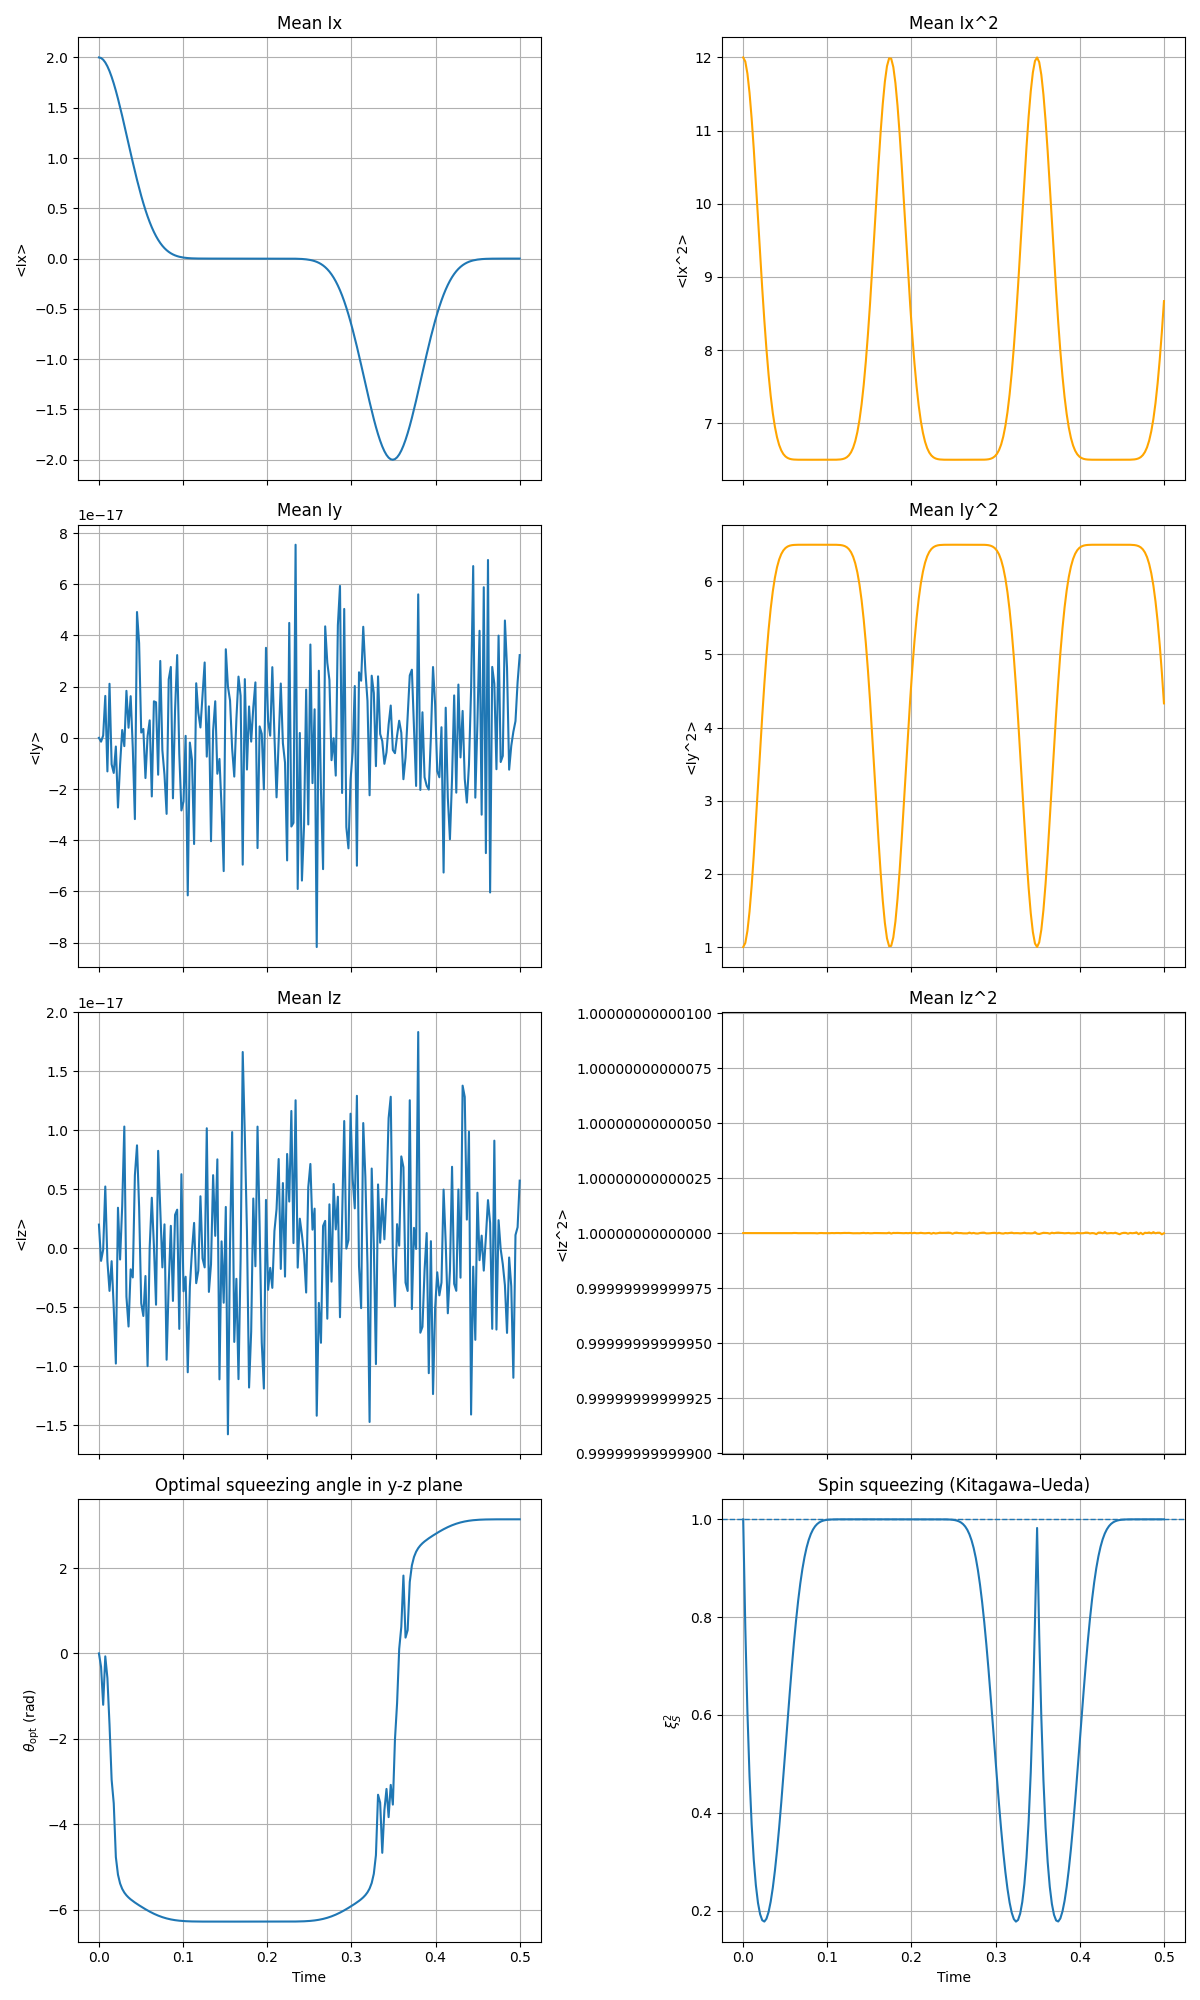
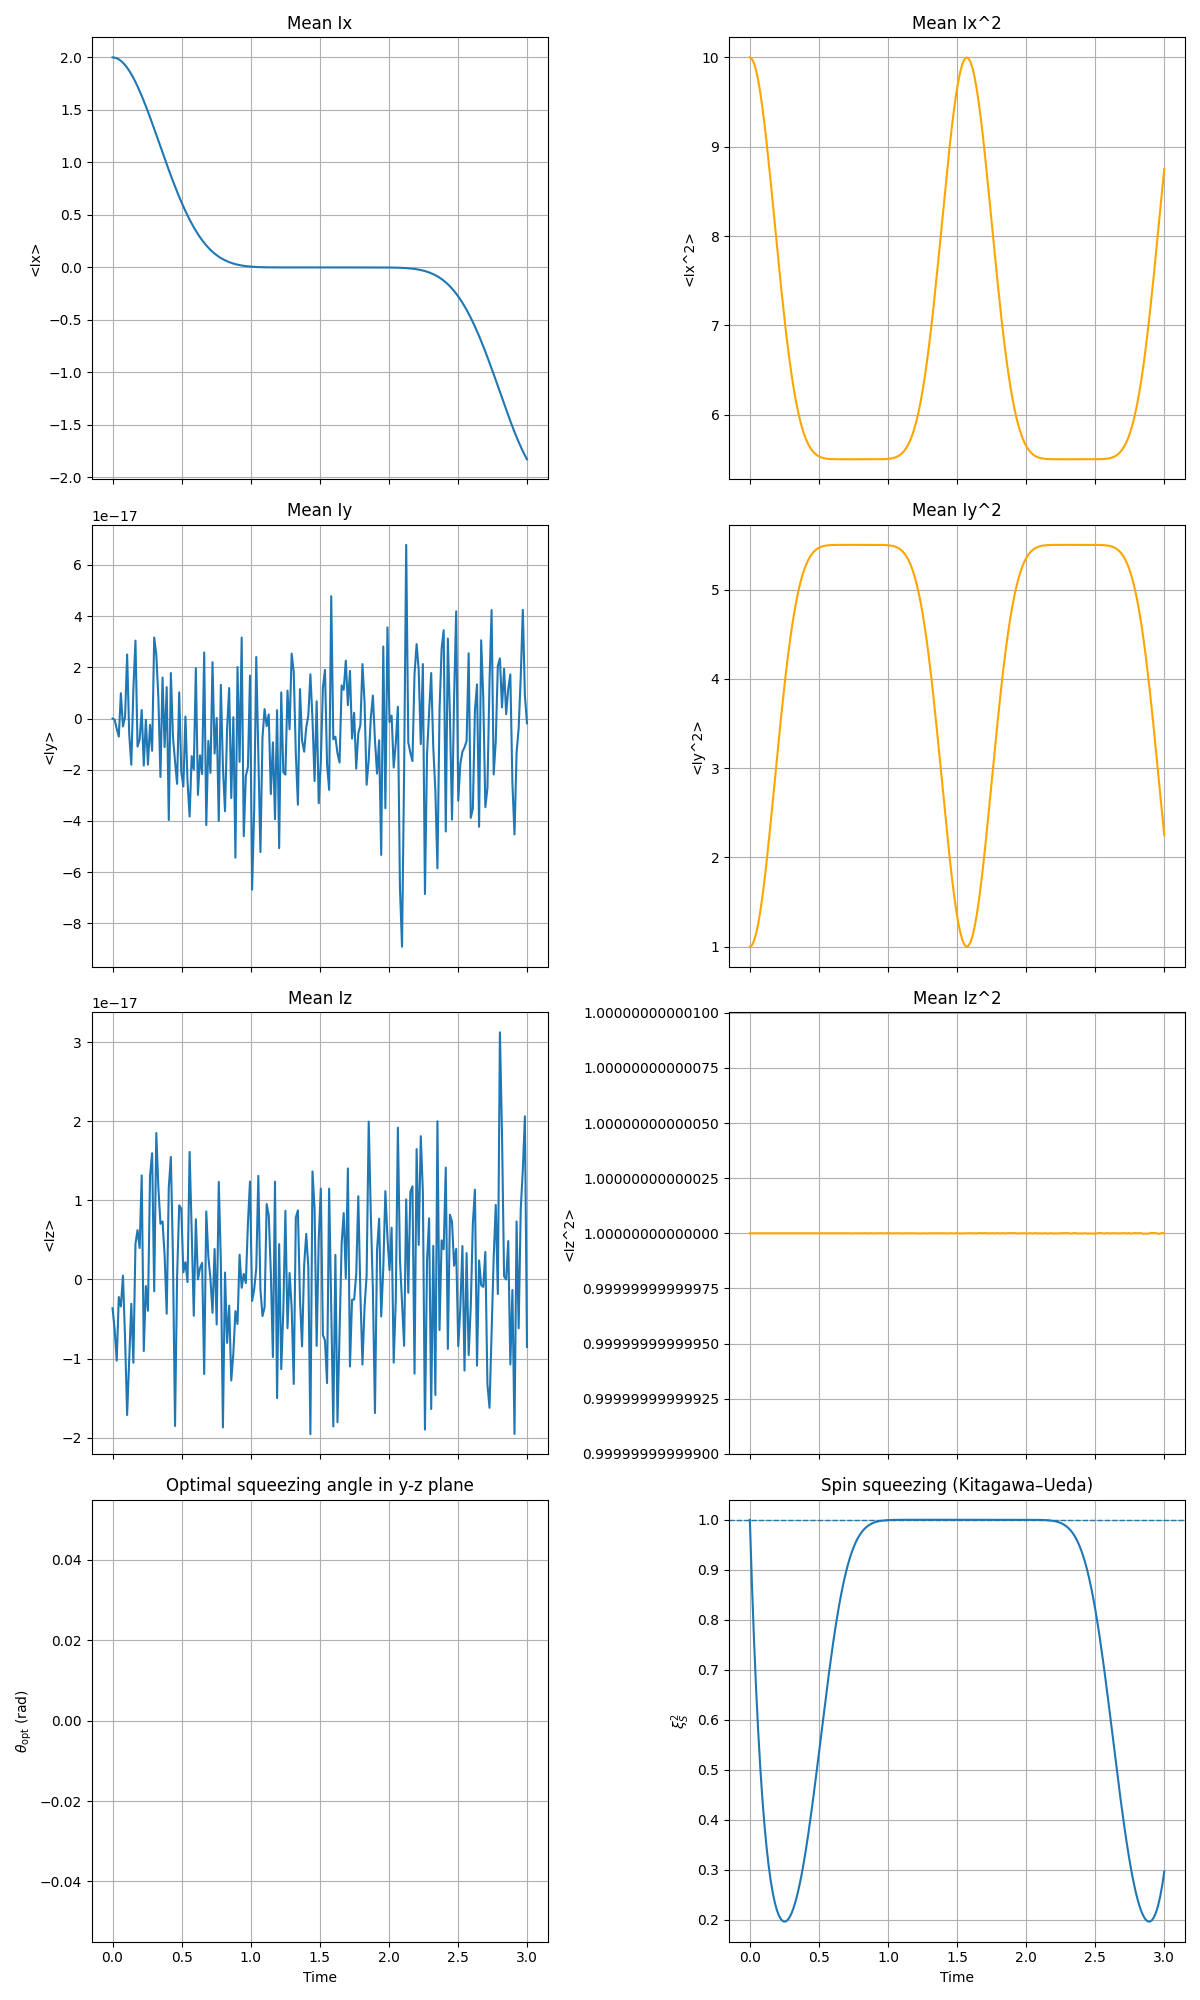
estimator

diff --git a/BruteForceAproach/estimator.py b/BruteForceAproach/estimator.py
@@ -1,0 +1,131 @@
+import numpy as np
+import scipy.linalg
+import matplotlib.pyplot as plt
+import math
+from scipy.linalg import expm
+
+N = 12 
+shots = 100
+J = 2.0
+Omega = 1.0
+omega = 1.0
+
+# Time parameters
+t_max = 2
+steps = 60
+times = np.linspace(0, t_max, steps)
+
+
+
+
+
+exp_value_x = []
+
+def estimateJ_naive():
+    sx = np.array([[0, 1], [1, 0]], dtype=complex)
+    sy = np.array([[0, -1j], [1j, 0]], dtype=complex)
+    sz = np.array([[1, 0], [0, -1]], dtype=complex)
+    id2 = np.eye(2, dtype=complex)
+    # Construct S_x, S_z
+    S_x = np.kron(sx, np.eye(2**N, dtype=complex))
+    S_z = np.kron(sz, np.eye(2**N, dtype=complex))
+
+    # 2. Bath Operators
+    # I_alpha = sum_k (1/2) sigma_alpha^k
+    # k runs from 1 to N. System is index 0.
+
+    I_x = np.zeros((2**N, 2**N), dtype=complex)
+    I_y = np.zeros((2**N, 2**N), dtype=complex)
+    I_z = np.zeros((2**N, 2**N), dtype=complex)
+
+    for k in range(N):
+        # Construct sigma_alpha on k-th spin
+        vx = [id2] * N
+        vy = [id2] * N
+        vz = [id2] * N
+        
+        vx[k] = sx
+        vy[k] = sy
+        vz[k] = sz
+        
+        # Compute tensor products
+        term_x = vx[0]
+        term_y = vy[0]
+        term_z = vz[0]
+        
+        for i in range(1, N):
+            term_x = np.kron(term_x, vx[i])
+            term_y = np.kron(term_y, vy[i])
+            term_z = np.kron(term_z, vz[i])
+            
+        I_x += 0.5 * term_x
+        I_y += 0.5 * term_y
+        I_z += 0.5 * term_z
+
+
+
+
+    H = J * np.kron(sz, I_z) 
+    print(H.shape)
+    plus = np.array([1.0, 1.0]) / np.sqrt(2.0)
+    psi0 = np.array([1.0, 0.0])
+    for _ in range(N):
+        psi0 = np.kron(psi0, plus)
+    
+    for t in times:
+        exp_value_xt = []
+        for s in range(shots):
+            U = expm(-1j * H * t)
+            psit = U @ psi0
+            H_total = np.kron(id2, scipy.linalg.hadamard(2**N) / np.sqrt(2**N))
+            psit_x = H_total @ psit
+            probs = np.abs(psit_x)**2
+            sample_idx = np.random.choice(2**(N+1), p=probs/np.sum(probs))
+            bitstring = format(sample_idx, f'0{N+1}b')
+            # mean_x = np.mean([int(bitstring[i+1]) for i in range(N)])
+            mean_x = np.mean([1 - 2 * int(bitstring[i+1]) for i in range(N)])
+
+            exp_value_xt.append(mean_x)
+        exp_value_x.append(np.mean(exp_value_xt))
+        analytical = np.cos(J * t)
+
+    from scipy.optimize import curve_fit
+    popt, _ = curve_fit(lambda t, j_est: np.cos(j_est * t), times, exp_value_x, p0=[0.5])
+    print(f"Estimated J: {popt[0]}")
+
+
+
+Sy2_t = []
+S_opt_t = []
+def estimateJ_squeezed():
+    # optimal_time = 0.22
+    for t in times:        
+        S_t = (N*(N-1))/8 * np.cos(2*t*J*J/Omega)**(N-2)
+        Sy2 = (N*(N+1))/8 - S_t
+        Sy2_t.append(4*Sy2/N)
+        Sz2 = N/4
+        # S_opt = (Sy2 + Sz2)/2 - 0.5 * (np.sqrt((Sy2 - Sz2)**2))
+        # S_opt_t.append(S_opt)
+
+    
+
+
+
+
+# estimateJ_naive()
+
+# plt.plot(times, exp_value_x)
+# plt.plot(times, np.cos(J * times))
+
+
+estimateJ_squeezed()
+plt.plot(times, Sy2_t, label='Sy2')
+# plt.plot(times, S_opt_t, label='S_opt')
+plt.legend()
+plt.show()
+    
+    
+
+    
+
+    

diff --git a/analytical_playground.py b/analytical_playground.py
@@ -11,6 +11,7 @@ def cm(N,m):
 def s_p(N, m):
     J = N//2
     return np.sqrt((J-m)*(J+m+1))
+
 def s_m(N, m):
     J = N//2
     return np.sqrt((J+m)*(J-m+1))
@@ -19,6 +20,73 @@ def Sy(N, m):
     return 0.5 * 1j * (s_m(N, m) - s_p(N, m))
 
 N = 10
+total = 0
+A = {}
+B = {}
+
+for m in range(-N//2, N//2 + 1):
+    def safe(x):
+    # turns nan/inf/None into 0.0
+        try:
+            if x is None:
+                return 0.0
+            x = float(x)
+            return x if math.isfinite(x) else 0.0
+        except Exception:
+            return 0.0
+
+    try:
+        cmp2 = cm(N, m+2)
+    except:
+        cmp2 = 0
+    try:
+        cmm2 = cm(N, m-2)
+    except:
+        cmm2 = 0
+    try:
+        cm0 = cm(N, m)    
+    except:
+        cm0 = 0
+    try:
+        cmp1 = cm(N, m+1)
+    except:
+        cmp1 = 0
+    try:
+        cmm1 = cm(N, m-1)
+    except:
+        cmm1 = 0
+
+    sm2 = safe(s_m(N, m+2))
+    sm1 = safe(s_m(N, m+1))
+    sp1 = safe(s_p(N, m-1))
+    sp2 = safe(s_p(N, m-2))
+    sm0 = safe(s_m(N, m))
+    sp0 = safe(s_p(N, m))
+    
+    
+    a = sm2*sm1*cmp2*cm0 
+    b = sp1*sp2*cmm2*cm0
+    A[m] = a
+    B[m] = b
+    # c = cm0*cm0*sm0*sp1 + cm0*cm0*sp0*sm1 
+    # total += a + b - c
+    total += b
+    print(f"m = {m}: b = {b}")
+print(total)
+# used_j = set()
+# for i, val_a in A.items():
+#     if val_a != 0:
+#         for j, val_b in B.items():
+#             if j not in used_j and math.isclose(val_a, val_b):
+#                 print(f"{val_a} = {val_b}, ({i}, {j})")
+#                 used_j.add(j)
+#                 break
+
+
+plt.scatter(range(-N//2, N//2 + 1), B.values())
+gausian = np.exp((-np.linspace(-N//2, N//2, N+1))**2)
+plt.plot(range(-N//2, N//2 + 1), gausian)
+plt.show()
 dim = N + 1
 Sy_matrix = np.zeros((dim, dim), dtype=complex)
 for i in range(dim):
@@ -47,11 +115,12 @@ g_sym = sp.symbols('g', real=True)
 J_sym = sp.Rational(1,2)*N_sym
 
 def cm_sym(N, m, t=0):
-    return (1 / 2**(N/2)) * sp.sqrt(sp.binomial(N, N/2 + m).rewrite(sp.factorial)) * sp.exp(-t * m * m * g_sym)
+    return (1 / 2**(N/2)) * sp.sqrt(sp.binomial(N, N/2 + m)) * sp.exp(-t * m * m * g_sym)
 
 def s_p_sym(N, m):
     J = N/2
     return sp.sqrt((J-m)*(J+m+1))
+
 
 def s_m_sym(N, m):
     J = N/2
@@ -68,6 +137,8 @@ term2 = cm_sym(N_sym, m_sym - 2) * s_p_sym(N_sym, m_sym - 2) * s_p_sym(N_sym, m_
 term3_1 = cm_sym(N_sym, m_sym) * s_m_sym(N_sym, m_sym) * s_p_sym(N_sym, m_sym - 1)
 term3_2 = cm_sym(N_sym, m_sym) * s_p_sym(N_sym, m_sym) * s_m_sym(N_sym, m_sym + 1)
 term3 = - term3_1 - term3_2
+
+Sp2_term = cm_sym(N_sym, m_sym - 2)* cm_sym(N_sym, m_sym) * s_p_sym(N_sym, m_sym - 2) * s_p_sym(N_sym, m_sym - 1)
 
 term = (term1 + term2 + term3) * cm_sym(N_sym, m_sym)
 exp_sy_2_sym = - 0.25 * sp.Sum(
@@ -89,7 +160,7 @@ latex_sy = sp.latex(sum_sy_simplified)
 latex_sy2 = sp.latex(exp_sy_2_sym)
 latex_sy_n10 = sp.latex(sum_sy.subs(N_sym, 10).doit())
 latex_sy2_n10 = sp.latex(exp_sy_2_sym.subs(N_sym, 10).doit())
-latex_sy2_term = sp.latex(term.doit().simplify())
+latex_Sp2_term = sp.latex(Sp2_term.doit().simplify())
 
 print("Symbolic Results (LaTeX):")
 print(f"<Sy>: {latex_sy}")
@@ -115,7 +186,7 @@ try:
         r"$\langle S_y \rangle_{N=10} = " + latex_sy_n10 + r"$" + "\n\n" +
         r"$\langle S_y^2 \rangle_{N=10} = " + latex_sy2_n10 + r"$" + "\n\n" +
         r"$\bf{Term}$" + "\n\n" +
-        r"$" + latex_sy2_term + r"$"
+        r"$" + latex_Sp2_term + r"$"
     )
     
     # We use a text box. Matplotlib's mathtext parser supports a subset of TeX.

diff --git a/spin_squeezing_dickie.py b/spin_squeezing_dickie.py
@@ -7,21 +7,21 @@ from scipy.linalg import expm
 
 def main():
     # Parameters
-    N = 12  # Number of bath spins
+    N = 10  # Number of bath spins
     J_bath = N / 2.0 # Total spin of the bath
     
     # Physical Parameters
     # Using same values as previous script where applicable
-    J_coupling = 3.0   # J in Hamiltonian
-    Omega = 1.0 # System Rabi frequency
+    J_coupling = 1.0   # J in Hamiltonian
+    Omega = 0.0 # System Rabi frequency
     omega = 0.0  # Bath splitting
     
     # Hamiltonian term prefactor for interaction: J^2 / Omega
     # H_int = (J^2 / Omega) * S_x * I_z^2
-    g_int = (J_coupling**2) / Omega
+    g_int = (J_coupling**2) / 1.0 #switch to Omega
 
     # Time parameters
-    t_max = 0.5
+    t_max = 3
     steps = 200
     times = np.linspace(0, t_max, steps)
 
@@ -171,12 +171,6 @@ def main():
         mean_Iz2_list.append(4*mean_Iz2/N)
         mean_Iyz_list.append(4*mean_Iyz_sym/N)
         
-        # # ---- optimal squeezing angle ----
-        # if abs(mean_Ix) > 1e-12:
-        #     theta_opt = np.arctan(mean_Iy / mean_Ix)
-        # else:
-        #     theta_opt = np.nan
-        # theta_opt_list.append(theta_opt)
 
         theta_opt = np.tan(2.0 * cov/ (dIy2 - dIz2))
         theta_opt_list.append(theta_opt)